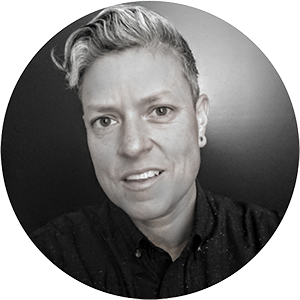
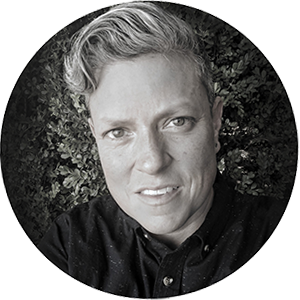
update my pic

diff --git a/index.html b/index.html
@@ -41,7 +41,7 @@
 
                     <div class="c-header__avatar">
                         <div class="a-header  c-avatar in-view" data-sr-id="2" style="; visibility: visible;  -webkit-transform: translateY(0) scale(1); opacity: 1;transform: translateY(0) scale(1); opacity: 1;-webkit-transition: -webkit-transform 1.2s ease 0.7s, opacity 1.2s ease 0.7s; transition: transform 1.2s ease 0.7s, opacity 1.2s ease 0.7s; ">
-                            <img class="c-avatar__img" src="assets/images/liz-pic2.png" alt="Liz Guenthner pic">
+                            <img class="c-avatar__img" src="assets/images/liz-pic.png" alt="Liz Guenthner pic">
                         </div><!-- /c-avatar -->
                     </div><!-- /c-header-avatar -->
 
